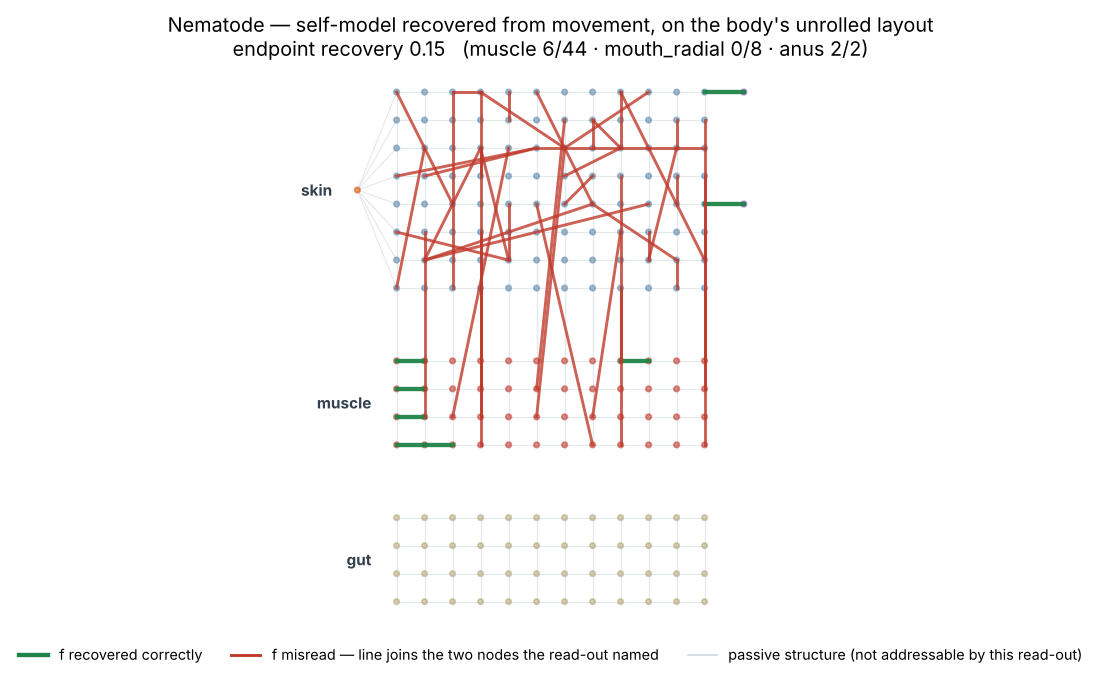
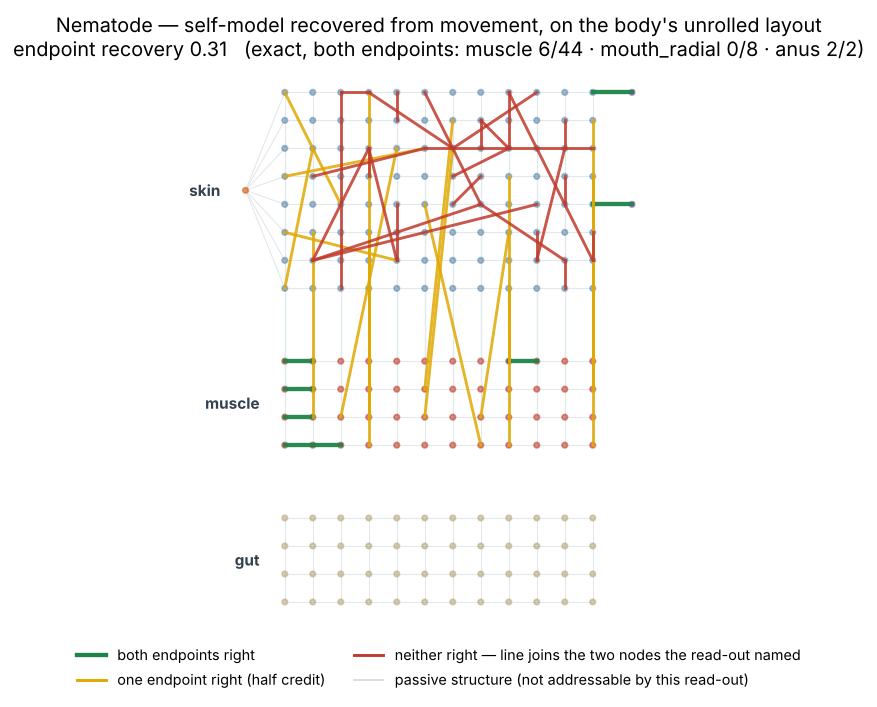
fix(self-model): report worm recovery on the house metric; label medusa counts
The worm pages (PR #45) reported endpoint recovery as the exact-match
fraction (both endpoints right), while metrics.endpoint_recovery -- the
number the medusa, Hydra and disk report -- gives half credit for one right
endpoint. The nematode page then compared the two scales directly.

- worm_self_model.py now scores with endpoint_recovery and reports exact and
  half counts beside it (asserting they reconcile); the figure marks half
  matches amber.
- Nematode 0.15 -> 0.31 (8/54 exact, 18 half). Earthworm 0.93 -> 0.95
  (41/44 exact, 2 half). Dated correction notes on both pages; ledger rows
  amended. Earthworm miss description corrected (one of the three misses
  keeps no true endpoint).
- Medusa: 0.86 was already the house metric; the page now says its
  per-kind counts are exact matches (71/90).

Claude-Session: https://claude.ai/code/session_019ko1Bnx7vELkP8zMG83jzQ

diff --git a/experiments/worm_self_model.py b/experiments/worm_self_model.py
@@ -15,11 +15,14 @@ This script does two things for each worm, without changing either body.
 
 * **Self-model.** The disk's procedure, unchanged (``diploblast_disk_self_model.py``):
   Ornstein-Uhlenbeck babble on every actuated ``f``, no medium, then the ``endpoint``
-  read-out (each ``f``'s two strongest co-moving segments are taken as its endpoints).
+  read-out (each ``f``'s two strongest co-moving segments are taken as its endpoints),
+  scored by the house metric :func:`smn_lab.metrics.endpoint_recovery` (1 per ``f`` with
+  both endpoints right, 0.5 with one), the same number the medusa, Hydra and disk report.
+  The exact-match fraction (both endpoints right) is reported beside it.
   The read-out has one row per *actuated* ``f``, so it can recover the muscle network
   only; passive links (skin, cuticle, hydrostat struts, gut) are outside its reach by
   construction. The result is drawn on the body's own unrolled layout, green where the
-  read-out named an ``f``'s true endpoints and red where it named two other nodes. The
+  read-out named both of an ``f``'s endpoints, amber where it named one, red where neither. The
   house self/world card (``report.render``) is not used for the picture: its abstract
   force layout is illegible for a 195-node body. ``render`` still writes the
   machine-readable record.
@@ -43,6 +46,7 @@ import mujoco
 _HERE = os.path.dirname(os.path.abspath(__file__))
 sys.path.insert(0, os.path.dirname(_HERE)); sys.path.insert(0, _HERE)
 from smn_lab.self_model import coupling
+from smn_lab.metrics import endpoint_recovery
 from smn_lab.report import RunRecord, render
 import nematode as NE
 import earthworm as EW
@@ -72,15 +76,19 @@ def babble(mod, S):
 
 
 def score(S, C, edge_of_act):
-    ok, tot, picks = Counter(), Counter(), Counter()
+    """Per kind: exact matches (both endpoints right) and half matches (one right). The
+    house metric, ``metrics.endpoint_recovery``, scores these 1 and 0.5."""
+    ok, half, tot, picks = Counter(), Counter(), Counter(), Counter()
     tis = S["tissue"]
     for a, e in enumerate(edge_of_act):
-        truth = tuple(sorted(S["edges"][e]))
-        top = tuple(sorted(int(s) for s in np.argsort(C[a])[::-1][:2]))
-        k = str(S["etype"][e]); tot[k] += 1; ok[k] += (top == truth)
-        if top != truth:
-            picks[" + ".join(sorted(str(tis[t]) for t in top))] += 1
-    return ok, tot, picks
+        truth = set(S["edges"][e])
+        top = set(int(s) for s in np.argsort(C[a])[::-1][:2])
+        k = str(S["etype"][e]); tot[k] += 1
+        hit = len(truth & top)
+        ok[k] += hit == 2; half[k] += hit == 1
+        if hit < 2:
+            picks[" + ".join(sorted(str(tis[t]) for t in top)) + f" ({hit} right)"] += 1
+    return ok, half, tot, picks
 
 
 def components(S):
@@ -244,7 +252,7 @@ def body_plan_figure(name, S, lay, bands, section_nodes, section_title, wrap_kin
     print("figure ->", os.path.normpath(out))
 
 
-def self_model_figure(name, S, lay, bands, C, eoa, er, ok, tot, out):
+def self_model_figure(name, S, lay, bands, C, eoa, er, ex, ok, tot, out):
     """Each actuated f's recovered endpoints, drawn on the body's own unrolled layout:
     green = the read-out named the f's true endpoints; red = it named two other nodes
     (the red line joins the nodes it DID name). Passive structure faint, for orientation."""
@@ -260,14 +268,15 @@ def self_model_figure(name, S, lay, bands, C, eoa, er, ok, tot, out):
     for a, e in enumerate(eoa):
         truth = tuple(sorted(S["edges"][e]))
         top = tuple(sorted(int(v) for v in np.argsort(C[a])[::-1][:2]))
-        good = top == truth
+        hit = len(set(top) & set(truth)); good = hit == 2
+        col = {2: "#1e8449", 1: "#e0a800", 0: "#c0392b"}[hit]
         (x0, y0), (x1, y1) = lay[top[0]], lay[top[1]]
         if good and abs(y1 - y0) > 1.5 and x0 == x1:          # a correctly recovered ring closure
             ax.plot([x0, x0 + 0.18], [max(y0, y1), max(y0, y1) + 0.45], color="#1e8449", lw=2.2, ls=":")
             ax.plot([x0, x0 + 0.18], [min(y0, y1), min(y0, y1) - 0.45], color="#1e8449", lw=2.2, ls=":")
             continue
-        ax.plot([x0, x1], [y0, y1], color="#1e8449" if good else "#c0392b",
-                lw=2.4 if good else 1.6, alpha=0.95 if good else 0.8, zorder=3 if good else 4)
+        ax.plot([x0, x1], [y0, y1], color=col,
+                lw=2.4 if good else 1.6, alpha=0.95 if good else 0.85, zorder=3 + (2 - hit))
         n_bad += not good
     for nm, ya, yb, rows in bands:
         ax.text(-0.9 if nm != "skin" else -2.3, -(ya + yb) / 2, nm, ha="right", va="center",
@@ -275,13 +284,14 @@ def self_model_figure(name, S, lay, bands, C, eoa, er, ok, tot, out):
     ax.set_aspect("equal"); ax.axis("off")
     per = " · ".join(f"{k} {ok[k]}/{tot[k]}" for k in tot)
     ax.set_title(f"{name.capitalize()} — self-model recovered from movement, on the body's "
-                 f"unrolled layout\nendpoint recovery {er:.2f}   ({per})", fontsize=11)
-    ax.legend(handles=[Line2D([], [], color="#1e8449", lw=2.4, label="f recovered correctly"),
+                 f"unrolled layout\nendpoint recovery {er:.2f}   (exact, both endpoints: {per})", fontsize=11)
+    ax.legend(handles=[Line2D([], [], color="#1e8449", lw=2.4, label="both endpoints right"),
+                       Line2D([], [], color="#e0a800", lw=1.6, label="one endpoint right (half credit)"),
                        Line2D([], [], color="#c0392b", lw=1.6,
-                              label="f misread — line joins the two nodes the read-out named"),
+                              label="neither right — line joins the two nodes the read-out named"),
                        Line2D([], [], color="#d5dbe0", lw=1.0,
                               label="passive structure (not addressable by this read-out)")],
-              loc="upper center", bbox_to_anchor=(0.5, -0.01), ncol=3, fontsize=8, frameon=False)
+              loc="upper center", bbox_to_anchor=(0.5, -0.01), ncol=2, fontsize=8, frameon=False)
     fig.savefig(out, dpi=130, bbox_inches="tight"); plt.close(fig)
     print("figure ->", os.path.normpath(out))
 
@@ -291,15 +301,19 @@ def run_worm(name, mod, S, lay, bands, section_nodes, section_title, wrap_kinds,
     comps = components(S)
     n_act = int(S["is_musc"].sum()); n_e = len(S["edges"])
     C, eoa = babble(mod, S)
-    ok, tot, picks = score(S, C, eoa)
-    er = sum(ok.values()) / n_act
+    ok, half, tot, picks = score(S, C, eoa)
+    act_edges = [S["edges"][e] for e in eoa]
+    er = float(endpoint_recovery(C, act_edges))          # the house metric (partial credit)
+    ex = sum(ok.values()) / n_act                         # exact: both endpoints right
+    assert abs(er - (sum(ok.values()) + 0.5 * sum(half.values())) / n_act) < 1e-9
     print(f"\n[{name}] {len(S['pos'])} nodes, {n_e} links ({n_act} actuated f, "
           f"{n_e - n_act} passive); connected components: {len(comps)}")
     for c in comps:
         print(f"    component of {c[-1]} nodes: {', '.join(c[:-1])}")
-    print(f"  self-model endpoint recovery over actuated f: {er:.2f}")
+    print(f"  self-model endpoint recovery over actuated f: {er:.3f} (house metric, partial "
+          f"credit); exact {sum(ok.values())}/{n_act} = {ex:.3f}")
     for k in tot:
-        print(f"    {k:13s} {ok[k]}/{tot[k]}")
+        print(f"    {k:13s} exact {ok[k]}/{tot[k]}, half {half[k]}, neither {tot[k]-ok[k]-half[k]}")
     if picks:
         print("  misses name instead:", "; ".join(f"{v}× {k}" for k, v in picks.most_common()))
 
@@ -312,15 +326,15 @@ def run_worm(name, mod, S, lay, bands, section_nodes, section_title, wrap_kinds,
     body_plan_figure(name, S, lay, bands, section_nodes, section_title, wrap_kinds,
                      headline, note, os.path.join(FIGDIR, f"{name}_body_plan.png"))
 
-    self_model_figure(name, S, lay, bands, C, eoa, er, ok, tot,
+    self_model_figure(name, S, lay, bands, C, eoa, er, ex, ok, tot,
                       os.path.join(FIGDIR, f"{name}_self_model.png"))
     # the machine-readable record, through the one results module (no card: the house
     # card's abstract force layout is illegible for a 195-node body; see the docstring)
-    act_edges = [S["edges"][e] for e in eoa]
     render(RunRecord(name=name, coupling_matrix=C, recovery="endpoint",
                      positions=lay, true_edges=act_edges,
-                     metrics={"endpoint_recovery": er},
-                     meta={"per_kind": {k: f"{ok[k]}/{tot[k]}" for k in tot},
+                     metrics={"endpoint_recovery": er, "endpoint_exact": ex},
+                     meta={"per_kind_exact": {k: f"{ok[k]}/{tot[k]}" for k in tot},
+                           "per_kind_half": {k: int(half[k]) for k in tot},
                            "components": comps, "misses_name": dict(picks)}),
            dict(prefix=name, op_plot=False, card=False))
     return er

diff --git a/docs/experiments/nematode.md b/docs/experiments/nematode.md
@@ -83,13 +83,16 @@ movement. Here that is measured with the disk's procedure, unchanged: random pul
 every actuated `f`, then the `endpoint` read-out, which takes each `f`'s two most strongly
 co-moving segments as its endpoints.
 
-![The nematode's self-model on its unrolled body: six of the 44 longitudinal muscle f's and both anal f's are recovered (green); the rest are misread, most often as a pair of skin nodes (red)](../figures/nematode_self_model.png)
+![The nematode's self-model on its unrolled body: six of the 44 longitudinal muscle f's and both anal f's are recovered exactly (green); 18 keep one true endpoint (amber); 28 name two other nodes, all of them skin (red)](../figures/nematode_self_model.png)
 
-!!! failure "Endpoint recovery 0.15 (8 of 54 actuated `f`s)"
-    Longitudinal muscle 6/44, pharyngeal radial 0/8, anal 2/2. In 32 of the 46 misses the
-    read-out names two **skin** nodes; in the other 14, one muscle node and one skin node.
-    For comparison, the same procedure gives 0.86 on the [medusa](medusa.md) and 0.93 on the
-    [earthworm](earthworm.md).
+!!! failure "Endpoint recovery 0.31 (8 of 54 actuated `f`s exact, 18 half)"
+    Scored by the bench's standard metric (1 per `f` with both endpoints right, 0.5 with
+    one). Exactly right: longitudinal muscle 6/44, pharyngeal radial 0/8, anal 2/2. Of the
+    46 that are not, 18 keep one true endpoint and 28 name two **skin** nodes, neither of them
+    an endpoint. For comparison, the same procedure gives 0.86 on the [medusa](medusa.md),
+    0.95 on the [earthworm](earthworm.md), and 0.99+ on the [Hydra](hydra.md) sac.
+
+*Corrected 27 Oct 2026: this section first gave 0.15, the fraction of `f`s with both endpoints right. The figure the bench reports everywhere else, `metrics.endpoint_recovery`, gives half credit for one right endpoint; the number above is that one, so it compares directly with the medusa, Hydra and disk.*
 
 Why it fails is **not established**. It is suggestive that the failure falls on the nematode's
 defining feature: its muscle is detached from the skin and rides on it through stiff attachment

diff --git a/docs/experiments/earthworm.md b/docs/experiments/earthworm.md
@@ -69,11 +69,15 @@ that is measured with the disk's procedure, unchanged: random pull-only drive on
 `f`, then the `endpoint` read-out, which takes each `f`'s two most strongly co-moving segments as
 its endpoints.
 
-![The earthworm's self-model on its unrolled body: all 20 longitudinal f's and 21 of 24 circular f's are recovered (green); the three misses are circular f's misattributed to a ganglion (red)](../figures/earthworm_self_model.png)
+![The earthworm's self-model on its unrolled body: all 20 longitudinal f's and 21 of 24 circular f's are recovered exactly (green); of the three circular f's that are not, two keep one true endpoint (amber) and one names a ganglion and a longitudinal node (red)](../figures/earthworm_self_model.png)
 
-!!! success "Endpoint recovery 0.93 (41 of 44 actuated `f`s)"
-    Longitudinal 20/20, circular 21/24. All three misses are circular `f`s that the read-out
-    attributes partly to a ganglion, the segmental node that spokes join to both tissues.
+!!! success "Endpoint recovery 0.95 (41 of 44 actuated `f`s exact, 2 half)"
+    Scored by the bench's standard metric (1 per `f` with both endpoints right, 0.5 with
+    one). Exactly right: longitudinal 20/20, circular 21/24. All three circular `f`s that are
+    not name a **ganglion**, the segmental node that spokes join to both tissues: two pair it
+    with one true endpoint, the third with a longitudinal node.
+
+*Corrected 27 Oct 2026: this section first gave 0.93, the fraction of `f`s with both endpoints right. The figure the bench reports everywhere else, `metrics.endpoint_recovery`, gives half credit for one right endpoint; the number above is that one, so it compares directly with the medusa, Hydra and disk.*
 
 What it recovers is worth stating precisely. The read-out has one row per **actuated** `f`, so
 the self-model is the muscle network only: six circular rings and four longitudinal bundles.

diff --git a/docs/status.md b/docs/status.md
@@ -88,8 +88,8 @@ audit reversed it. That is the point of the process, and the reason most pages s
 ### The worm ladder
 | status | experiment | note |
 |---|---|---|
-| 🟡 | [Nematode — a tube that bends](experiments/nematode.md) | Self-model measured (`worm_self_model.py`, disk babble + endpoint read-out): **0.15** (8/54 actuated `f`s; misses mostly name two skin nodes). Cause open. Model note: the gut tube is a separate connected component, attached to nothing. No world-model (no world in the experiment). New; not yet independently audited. |
-| 🟡 | [Earthworm — a segmented hydrostat](experiments/earthworm.md) | Self-model measured (same procedure): **0.93** (41/44; longitudinal 20/20, circular 21/24). Recovers the muscle network only; the passive hydrostat coupling is outside the read-out by construction. No world-model (no world in the experiment). New; not yet independently audited. |
+| 🟡 | [Nematode — a tube that bends](experiments/nematode.md) | Self-model measured (`worm_self_model.py`, disk babble + endpoint read-out): **0.31** (house metric; 8/54 actuated `f`s exact, 18 half; 28 name two skin nodes; corrected 27 Oct from 0.15, an exact-match fraction). Cause open. Model note: the gut tube is a separate connected component, attached to nothing. No world-model (no world in the experiment). New; not yet independently audited. |
+| 🟡 | [Earthworm — a segmented hydrostat](experiments/earthworm.md) | Self-model measured (same procedure): **0.95** (house metric; 41/44 exact: longitudinal 20/20, circular 21/24; corrected 27 Oct from 0.93, an exact-match fraction). Recovers the muscle network only; the passive hydrostat coupling is outside the read-out by construction. No world-model (no world in the experiment). New; not yet independently audited. |
 
 ### §5–§7 · Object-directedness, multimodal, taxonomy
 | status | experiment | note |

diff --git a/docs/experiments/medusa.md b/docs/experiments/medusa.md
@@ -54,8 +54,10 @@ carry no tentacle: six tentacles cannot sit evenly on eight spokes.
 **The self-model.** The right-hand panel is recovered by the disk's procedure,
 unchanged: random pull-only drive on every `f`, no medium, and the `endpoint`
 read-out (each `f`'s two strongest co-moving segments are taken as its endpoints).
-Red edges are the misses. Endpoint recovery is **0.86**, and the errors are not where
-one might guess. The tentacles are recovered almost perfectly (22 of 24 tentacle
+Red edges are the misses. Endpoint recovery is **0.86** on the bench's standard metric,
+which scores each `f` 1 if both endpoints are right and 0.5 if one is; 71 of the 90 `f`s
+have both right, and the counts that follow are of those exact matches. The errors are
+not where one might guess. The tentacles are recovered almost perfectly (22 of 24 tentacle
 `f`s, all 18 braces). The misses cluster at the **bell's centre**: 7 of the 8
 apex-to-inner-ring spokes, and 7 of the 8 inner-ring coronal links. Why the hub
 reads worst is not yet established. One plausible reading, unverified, is that
